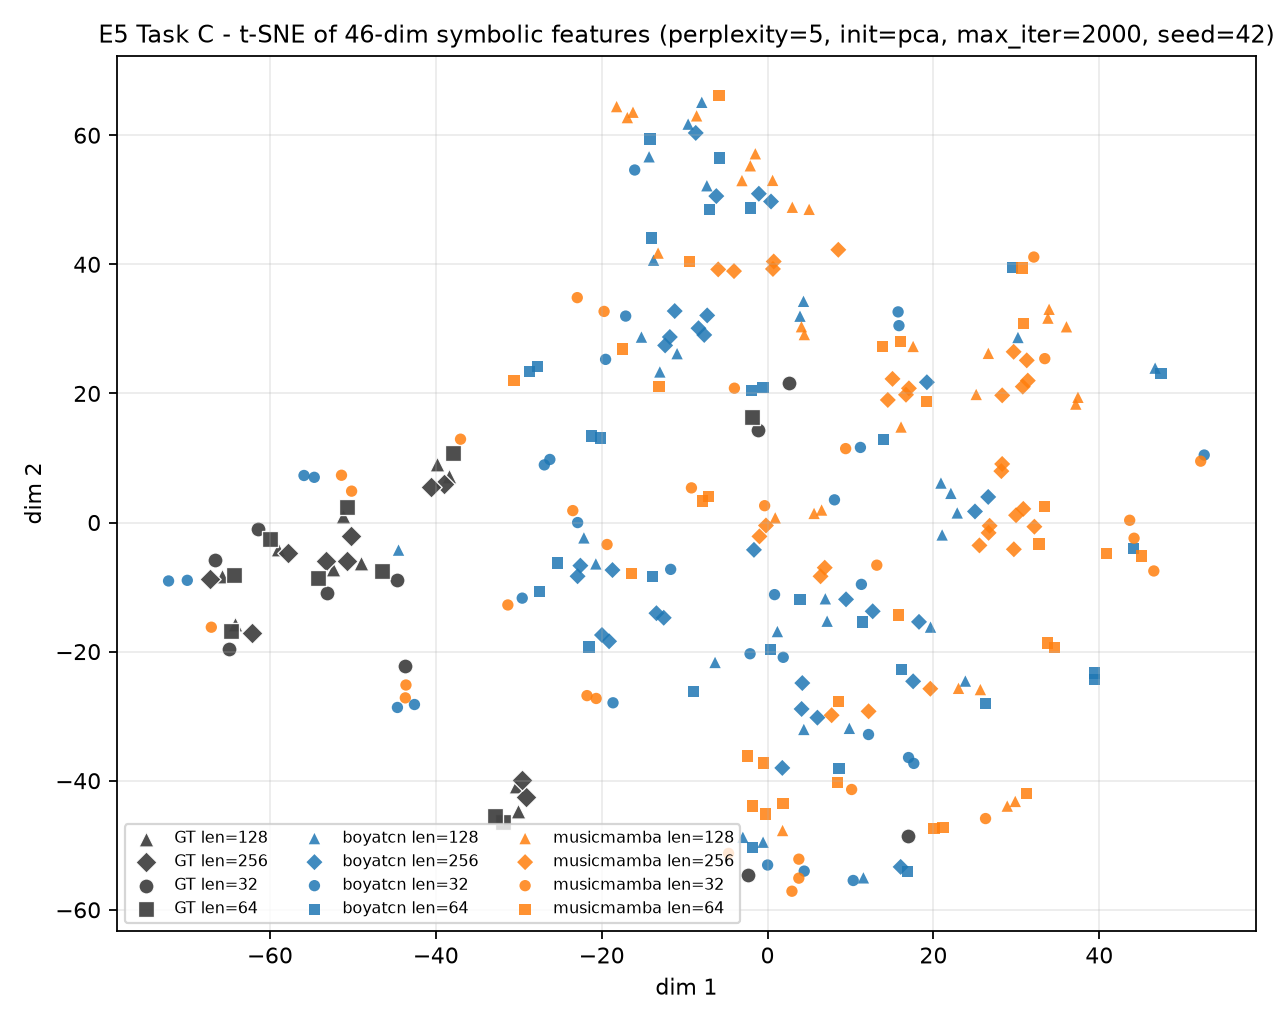
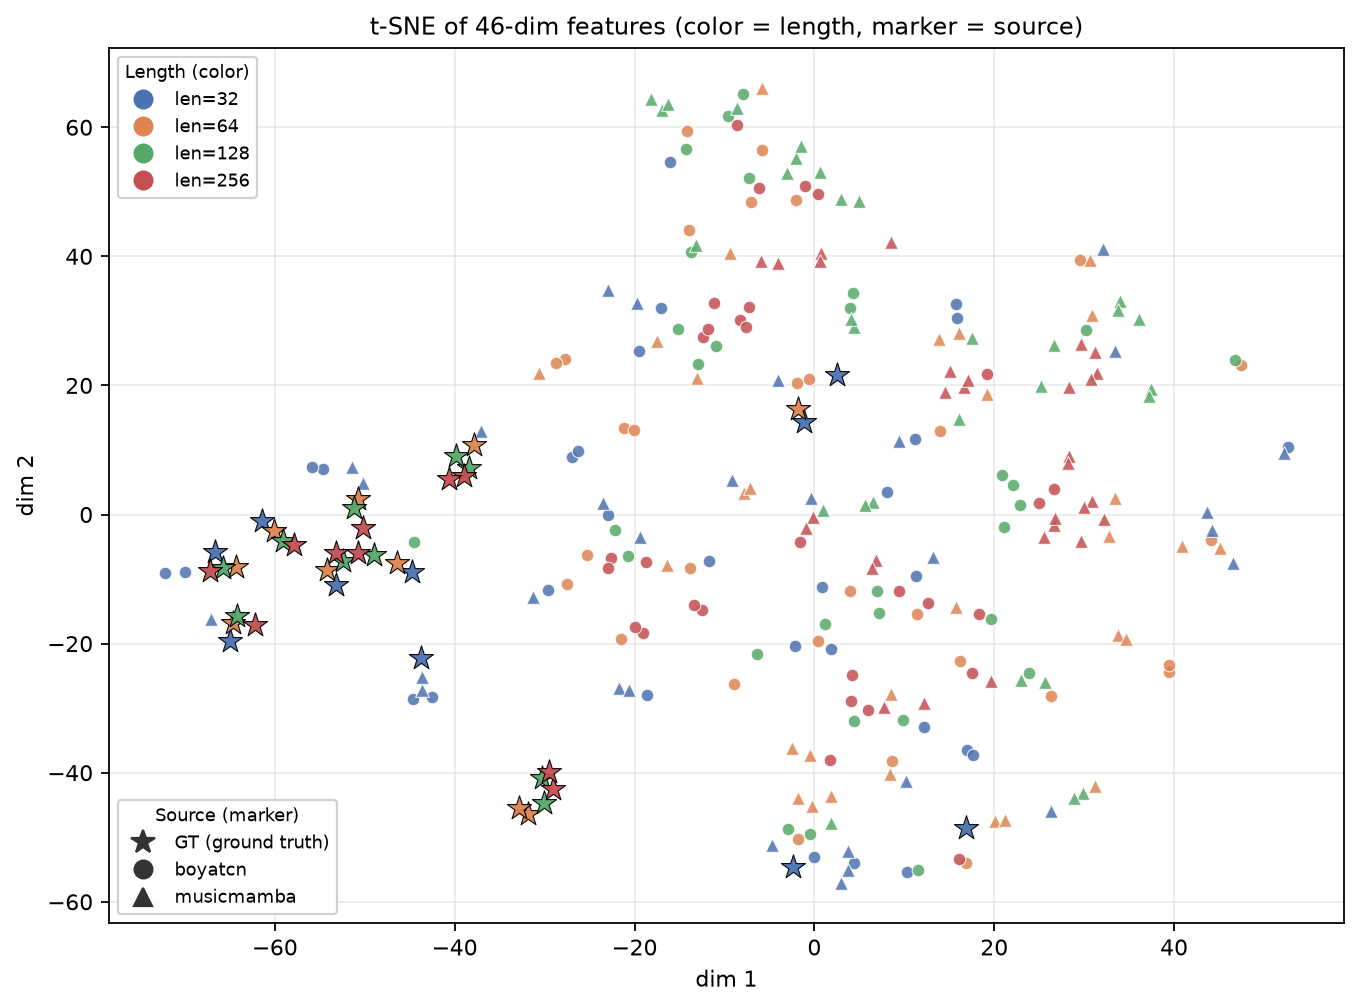
style(E5): 任务C降维图改版——颜色=续写长度、形状=模型/GT；修复图例覆盖与标题裁剪；同步报告图注（簇距离不变，可复现）

diff --git a/evaluate_e4_sampling.py b/evaluate_e4_sampling.py
@@ -713,8 +713,13 @@ def _plot_reduction(result: Dict[str, Any], cfg: dict) -> List[Dict[str, Any]]:
     Xs = StandardScaler().fit_transform(X)
     print(f"[E5-eval] 任务C 样本数 = {len(samples)}（含同起点等长 GT 区域）")
 
-    colors = {"GT": "#444444", "boyatcn": "#1f77b4", "musicmamba": "#ff7f0e"}
-    markers = {"32": "o", "64": "s", "128": "^", "256": "D"}
+    # 视觉编码：**颜色 = 续写长度**，**形状 = 模型/来源**（GT 用星形并加黑边区分）
+    groups = sorted({s["group"] for s in samples}, key=lambda g: int(g))
+    palette = ["#4C72B0", "#DD8452", "#55A868", "#C44E52", "#8172B3", "#937860", "#DA8BC3"]
+    colors = {g: palette[i % len(palette)] for i, g in enumerate(groups)}
+    markers = {"GT": "*", "boyatcn": "o", "musicmamba": "^"}
+    sizes = {"GT": 130, "boyatcn": 32, "musicmamba": 38}
+    sources = ("GT", "boyatcn", "musicmamba")
     u = rcfg["umap"]
     t = rcfg["tsne"]
 
@@ -727,36 +732,47 @@ def _plot_reduction(result: Dict[str, Any], cfg: dict) -> List[Dict[str, Any]]:
     xy_t = tt.fit_transform(Xs)
 
     def _draw(xy: np.ndarray, title: str, path: str) -> None:
-        fig, ax = plt.subplots(figsize=(8.0, 6.4), dpi=160)
-        for source in ("GT", "boyatcn", "musicmamba"):
-            for grp in sorted({s["group"] for s in samples}):
+        from matplotlib.lines import Line2D
+
+        fig, ax = plt.subplots(figsize=(8.6, 6.4), dpi=160)
+        for source in sources:
+            for grp in groups:
                 idx = [i for i, s in enumerate(samples)
                        if s["source"] == source and s["group"] == grp]
                 if not idx:
                     continue
                 ax.scatter(xy[idx, 0], xy[idx, 1],
-                           s=26 if source != "GT" else 46,
-                           c=colors[source], marker=markers.get(grp, "o"),
+                           s=sizes[source], c=colors[grp], marker=markers[source],
                            alpha=0.85 if source != "GT" else 0.95,
-                           edgecolors="white" if source == "GT" else "none",
-                           linewidths=0.6, label=f"{source} len={grp}")
+                           edgecolors="black" if source == "GT" else "white",
+                           linewidths=0.5, zorder=3 if source == "GT" else 2)
+        # 双图例：颜色=续写长度，形状=来源
+        h_color = [Line2D([], [], marker="o", ls="", color=colors[g], markersize=8,
+                          label=f"len={g}") for g in groups]
+        h_marker = [Line2D([], [], marker=markers[s], ls="", color="#333333",
+                           markersize=11 if s == "GT" else 8,
+                           label=("GT (ground truth)" if s == "GT" else s)) for s in sources]
+        leg1 = ax.legend(handles=h_color, title="Length (color)", fontsize=8,
+                         title_fontsize=8, loc="upper left", framealpha=0.9)
+        ax.add_artist(leg1)
+        ax.legend(handles=h_marker, title="Source (marker)", fontsize=8,
+                  title_fontsize=8, loc="lower left", framealpha=0.9)
         ax.set_title(title, fontsize=11)
         ax.set_xlabel("dim 1")
         ax.set_ylabel("dim 2")
         ax.grid(alpha=0.25)
-        ax.legend(fontsize=7, ncol=3, loc="best")
         fig.tight_layout()
         os.makedirs(os.path.dirname(path) or ".", exist_ok=True)
-        fig.savefig(path)
+        fig.savefig(path, bbox_inches="tight")
         plt.close(fig)
         print(f"[E5-eval] 降维图: {path}")
 
     umap_png = os.path.join(_SCRIPT_DIR, str(out["umap_png"]))
     tsne_png = os.path.join(_SCRIPT_DIR, str(out["tsne_png"]))
-    _draw(xy_u, "E5 Task C - UMAP of 46-dim symbolic features "
-                "(n_neighbors=8, min_dist=0.1, seed=42)", umap_png)
-    _draw(xy_t, "E5 Task C - t-SNE of 46-dim symbolic features "
-                "(perplexity=5, init=pca, max_iter=2000, seed=42)", tsne_png)
+    _draw(xy_u, "UMAP of 46-dim features (color = length, marker = source)",
+          umap_png)
+    _draw(xy_t, "t-SNE of 46-dim features (color = length, marker = source)",
+          tsne_png)
 
     return _cluster_info(samples, xy_u, "umap") + _cluster_info(samples, xy_t, "tsne")
 

diff --git a/reports/E5_model_compare_drift_summary.md b/reports/E5_model_compare_drift_summary.md
@@ -178,11 +178,13 @@
 
 ![UMAP](e5/e5_umap_46d.png)
 **`reports/e5/e5_umap_46d.png`** — 46 维符号特征经 StandardScaler 后 UMAP 投影。
-颜色：深灰 = 验证窗口 GT，`蓝 = BoYaTCN`，`橙 = MusicMamba`；标记形状区分续写长度
-（圆 = 32，方 = 64，三角 = 128，菱形 = 256）。每类 30 个生成样本 + 10 个 GT 点。
+**视觉编码：颜色 = 续写长度**（蓝 = 32，橙 = 64，绿 = 128，红 = 256），
+**形状 = 来源/模型**（星形 = 验证窗口 GT 真值，黑边加大；圆 = BoYaTCN；三角 = MusicMamba）。
+每模型每长度 30 个生成样本（3 籽 × 10 窗口），每长度 10 个等长截取 GT 点。
 
 ![t-SNE](e5/e5_tsne_46d.png)
-**`reports/e5/e5_tsne_46d.png`** — 同一批特征的 t-SNE 投影（perplexity=5，init=pca，2000 次迭代）。
+**`reports/e5/e5_tsne_46d.png`** — 同一批特征、同一编码方案的 t-SNE 投影
+（perplexity=5，init=pca，2000 次迭代）。
 
 ### 各类簇中心到**同长度 GT 簇中心**的距离（降维空间欧氏距离）
 
